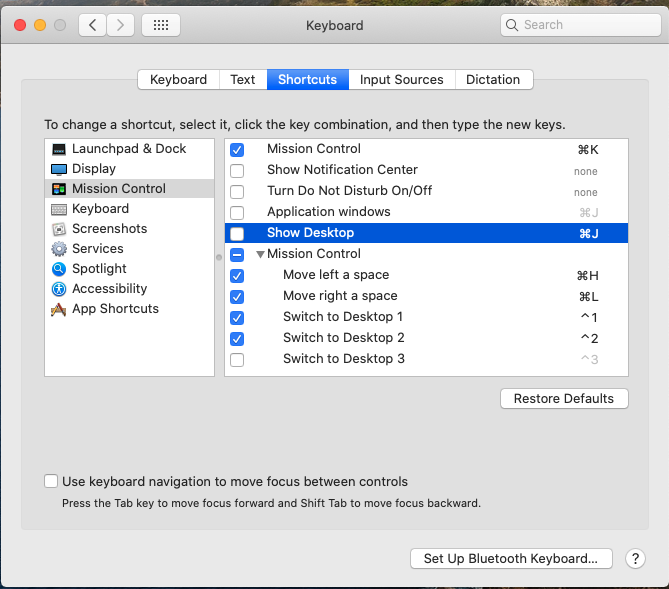
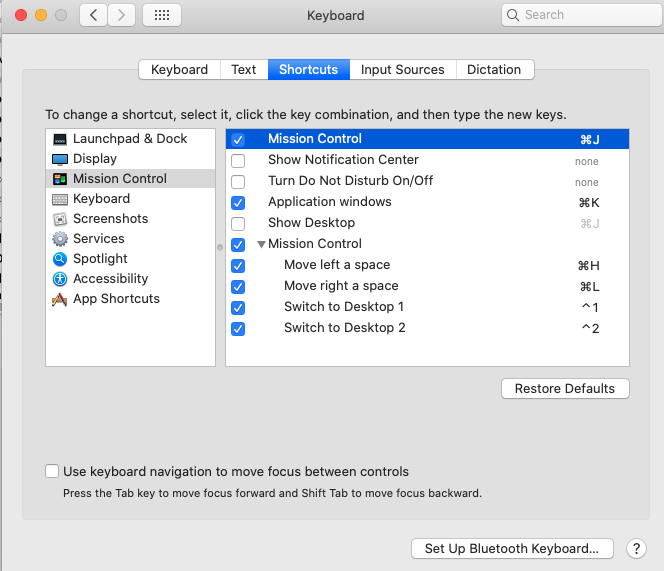
Update install steps and mission control config

Changed region(s): [[0.0, 0.0, 1.0, 0.7145], [0.0602, 0.8039, 0.7229, 0.8932], [0.0, 0.9229, 1.0, 1.0]]

diff --git a/macos-dotfiles/README.md b/macos-dotfiles/README.md
@@ -30,3 +30,7 @@ defaults write com.apple.finder _FXShowPosixPathInTitle -bool true; killall Find
 10. Install mission control commands
 
 ![mission_control_config.png](mission_control_config.png)
+
+11. Update bash
+
+https://itnext.io/upgrading-bash-on-macos-7138bd1066ba
